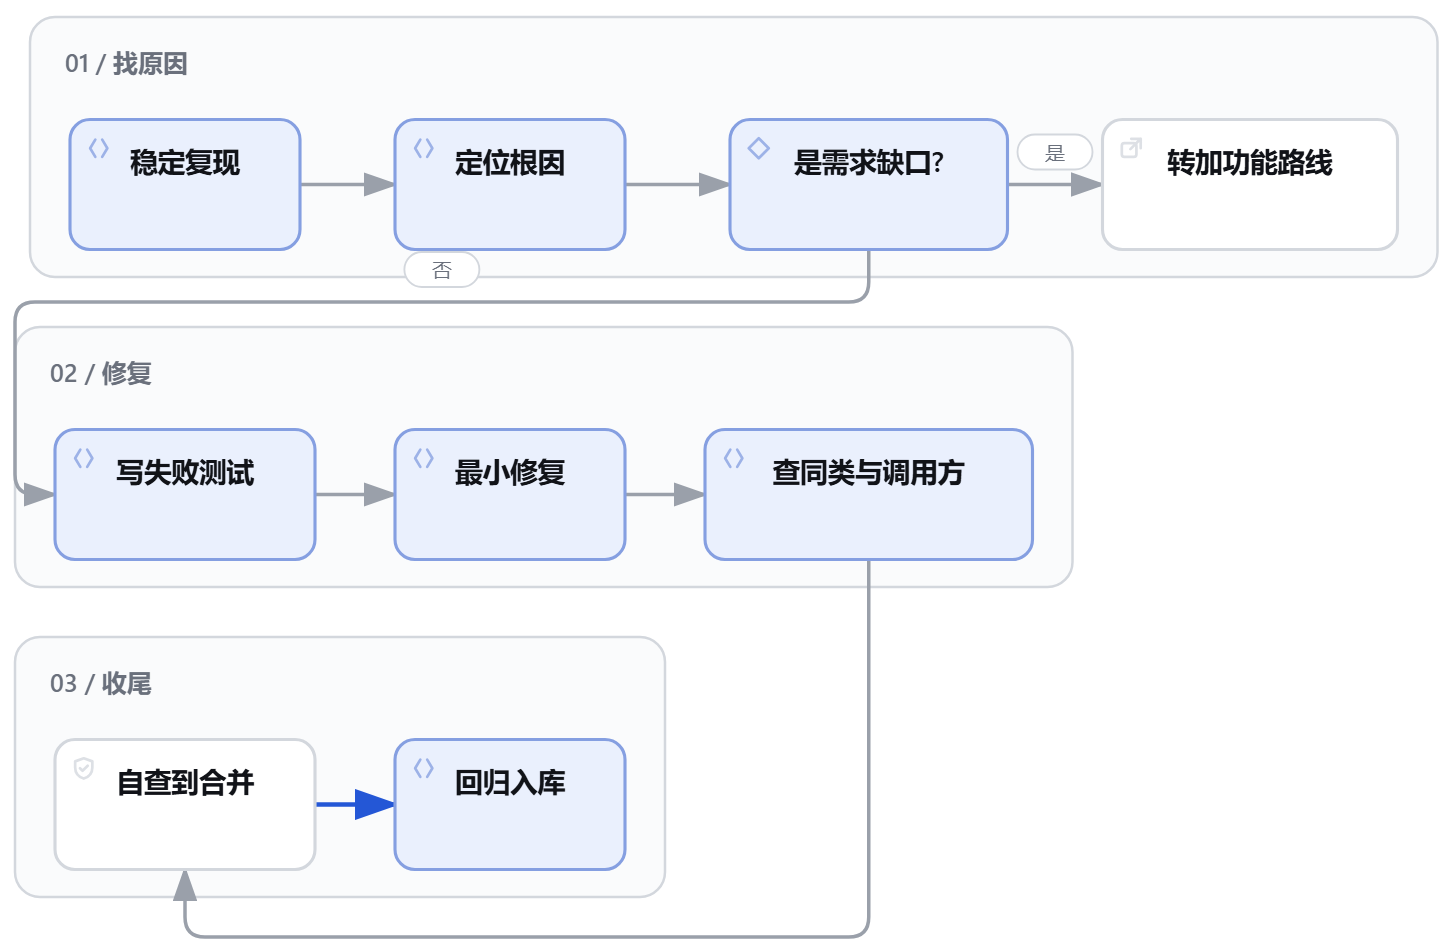
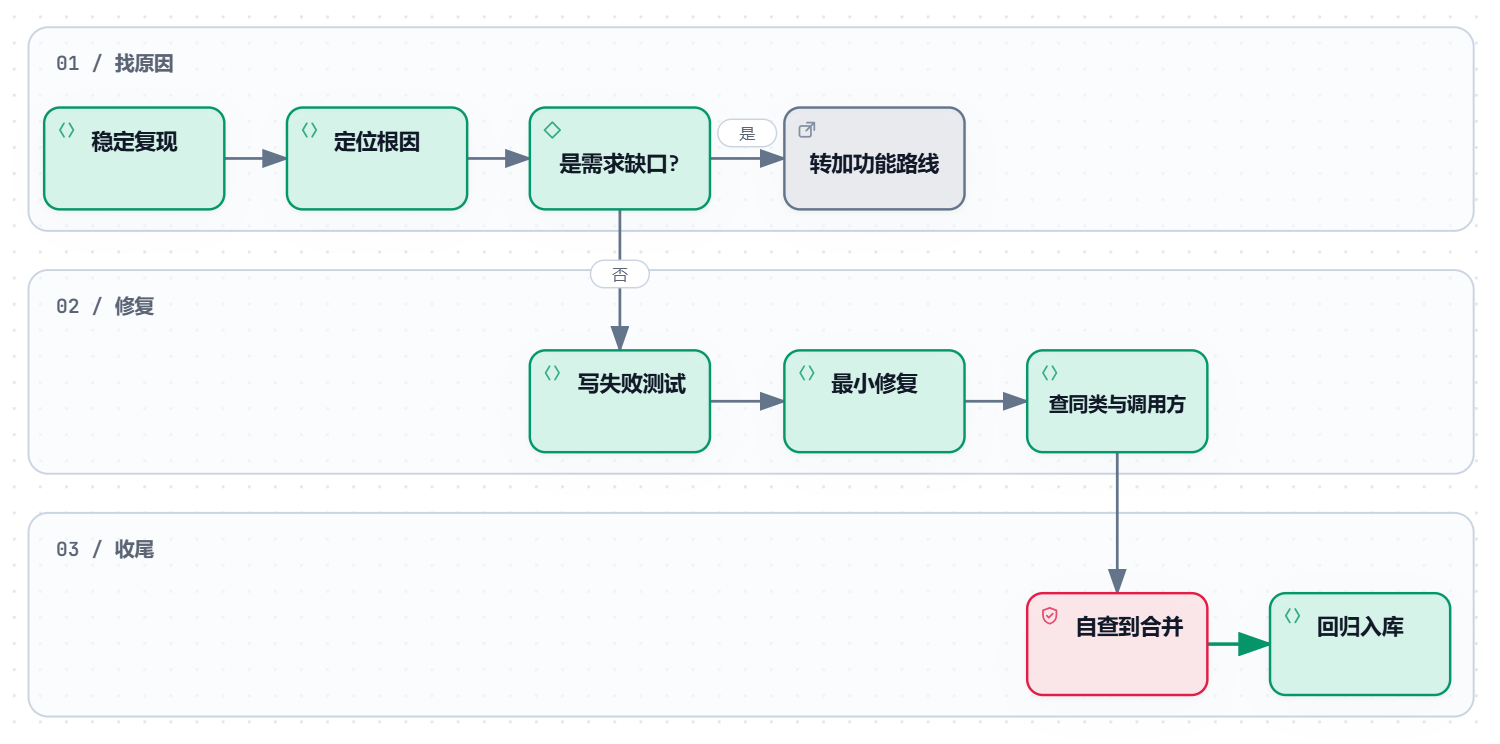
fix: 导图导出脚本加固，并用统一配色重生成 new-project、bug-fix 两张 PNG（后续项 1、7）

diff --git a/docs/images/src/README.md b/docs/images/src/README.md
@@ -1,9 +1,9 @@
 # 导图源文件
 
-`delivery.png`、`feature.png` 由本目录的 archify workflow JSON 生成（archify 随插件分发，位于 `plugin/skills/archify/`）。
+`delivery.png`、`feature.png`、`new-project.png`、`bug-fix.png` 由本目录的 archify workflow JSON 生成（archify 随插件分发，位于 `plugin/skills/archify/`）。
 
 1. 校验并渲染成 HTML：`node plugin/skills/archify/bin/archify.mjs finalize workflow docs/images/src/<名>.workflow.json <临时目录>/<名>.html --quality showcase --json`（`meta.output` 只是占位，实际输出到命令行给的路径；重跑前先删掉旧的 `<名>.*` 证据文件）。
 2. 导出 PNG：`node docs/images/src/export-png.mjs <临时目录>/<名>.html docs/images/<名>.png 1500`（用本机 Chrome 无头模式截取图表，第三个参数是输出像素宽度；Chrome 不在 Windows 默认路径时设环境变量 `ARCHIFY_CHROME`）。
 3. 改了步骤名要同步 `evals/entry.test.mjs` 的 STEPS，图上节点名须与之逐字一致。
 
-`new-project.workflow.json`、`bug-fix.workflow.json` 对应 `new-project.png`、`bug-fix.png`，是 2026-11-13 补的可编辑源：步骤、连线与旧 PNG 一致，布局和配色按 archify 重新生成，与旧 PNG 略有差别；这两张 PNG 当前仍是旧图，尚未由这些 JSON 重新生成，要换时按上面两步重新生成（`new-project` 导出宽度 1000，`bug-fix` 1500）。
+`new-project` 导出宽度用 1000，其余用 1500。四张图统一用 archify 配色，从各自的 JSON 重新生成；导出脚本会自选调试端口、设有超时，出错时关掉 Chrome 并删临时目录。
